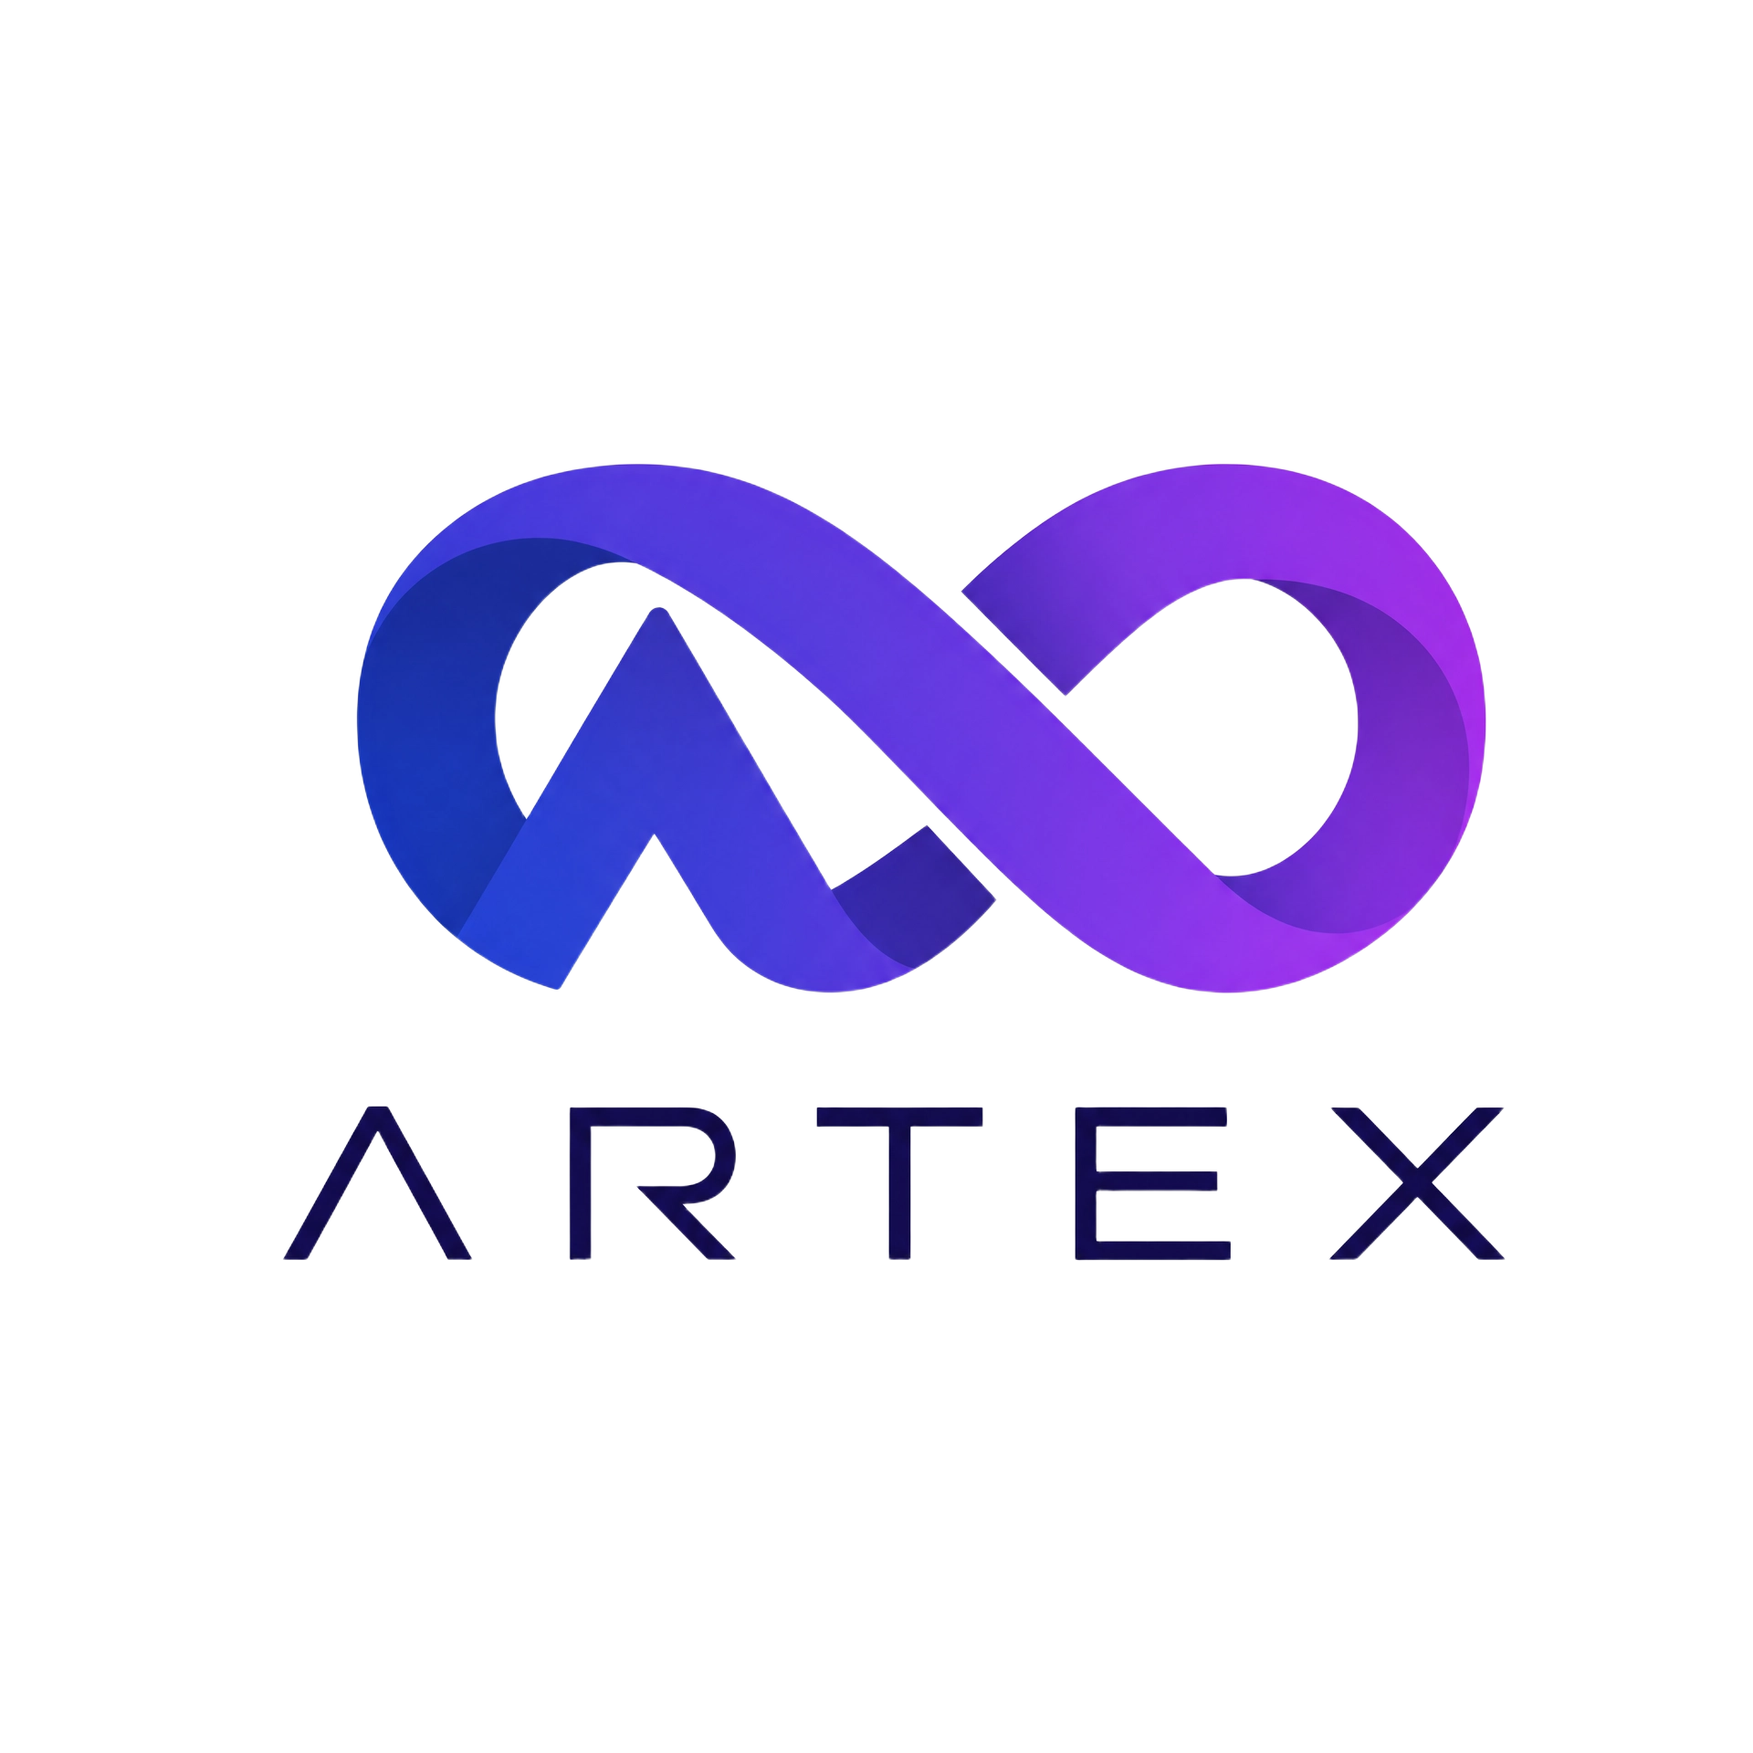
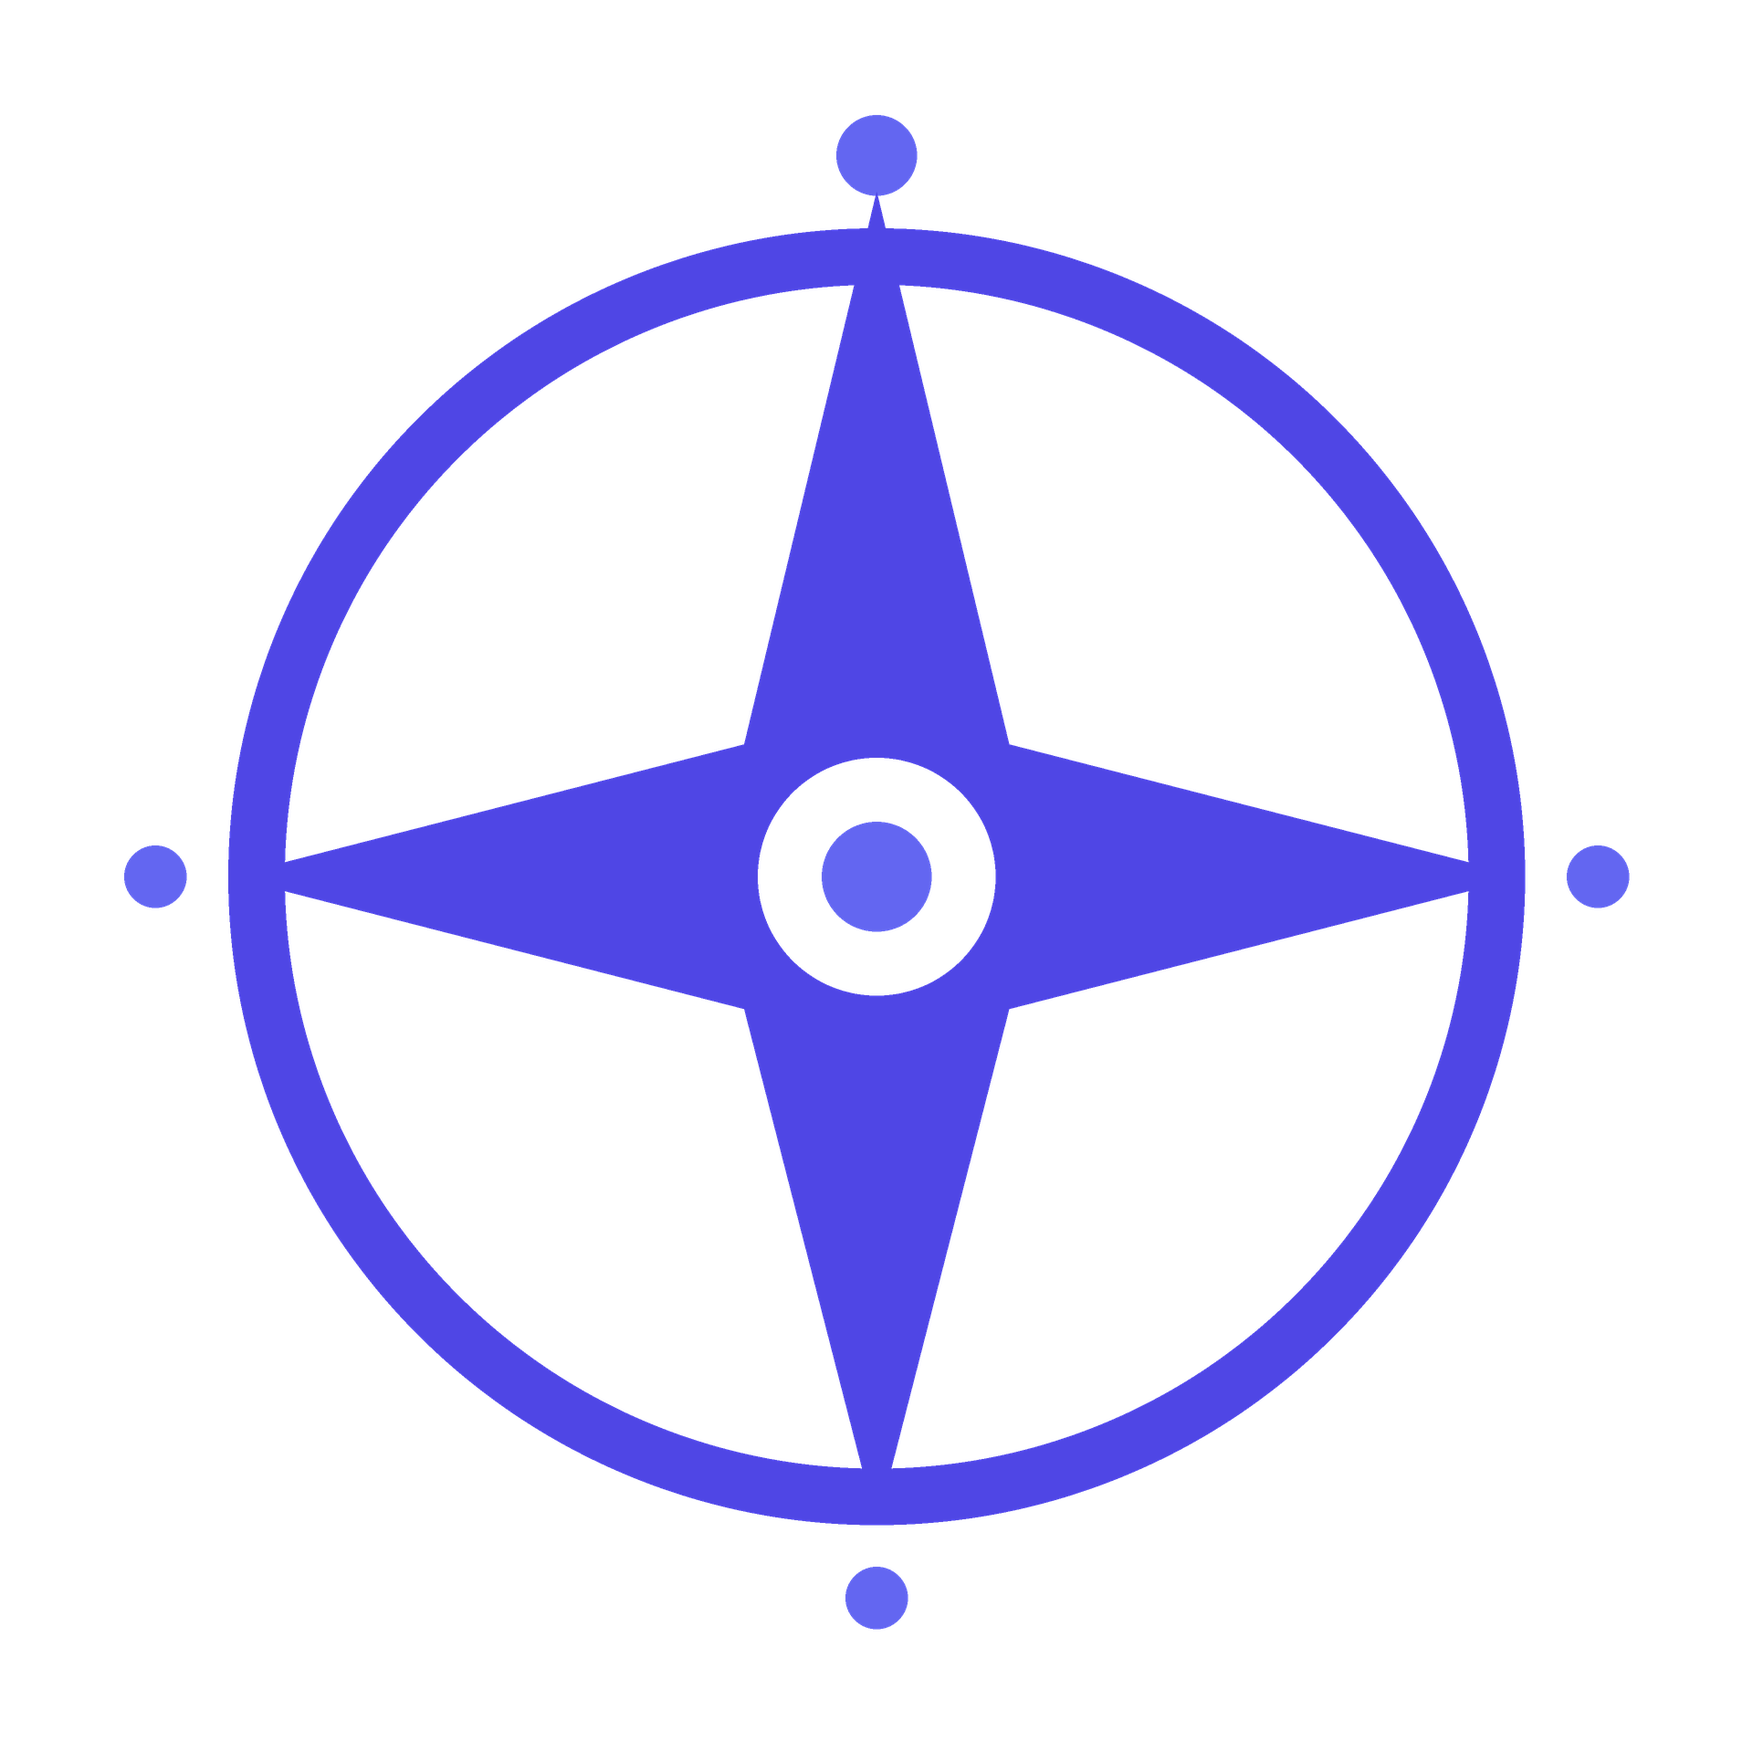
feat(ui): 设计并应用 Lodestar 星航主题，彻底清理 ARTEX 图标与指纹
- 新增 web/src/styles/presets/lodestar.css 主题预设（深空靛蓝星图侧边栏 + 极光紫主色，支持浅色/深色模式），并设为默认主题
- 重绘 logo.svg / logo.png / icon.png / favicon.ico 为北极星八芒罗盘图标，移除未使用的 web/media/dashboard.png
- 重设计登录页与初始化页左侧面板为星盘罗盘与星野网格视觉，侧边栏头部补充 Polaris Engine 副标题
- 替换 cmd/lodestar 启动 ASCII 横幅为 Lodestar，清理 web/next.config.mjs 与 reset-password.sh 中的上游名称残留

Changed region(s): [[0.0625, 0.0625, 0.9375, 0.9375], [0.5938, 0.625, 0.7188, 0.7188]]

diff --git a/web/src/styles/presets/lodestar.css b/web/src/styles/presets/lodestar.css
@@ -1,0 +1,90 @@
+/*
+label: Lodestar
+value: lodestar
+*/
+
+:root[data-theme-preset="lodestar"] {
+  --radius: 0.625rem;
+  --background: oklch(0.985 0.004 265);
+  --foreground: oklch(0.165 0.025 268);
+  --card: oklch(1 0 0);
+  --card-foreground: oklch(0.165 0.025 268);
+  --popover: oklch(1 0 0);
+  --popover-foreground: oklch(0.165 0.025 268);
+  --primary: oklch(0.495 0.235 274);
+  --primary-foreground: oklch(0.99 0.005 274);
+  --secondary: oklch(0.945 0.022 270);
+  --secondary-foreground: oklch(0.285 0.065 272);
+  --muted: oklch(0.955 0.012 268);
+  --muted-foreground: oklch(0.485 0.032 268);
+  --accent: oklch(0.935 0.032 272);
+  --accent-foreground: oklch(0.32 0.11 274);
+  --destructive: oklch(0.577 0.245 27.325);
+  --border: oklch(0.895 0.018 268);
+  --input: oklch(0.895 0.018 268);
+  --ring: oklch(0.555 0.215 274);
+  --chart-1: oklch(0.495 0.235 274);
+  --chart-2: oklch(0.605 0.195 295);
+  --chart-3: oklch(0.645 0.165 215);
+  --chart-4: oklch(0.715 0.165 165);
+  --chart-5: oklch(0.685 0.175 55);
+  /* 深空星航侧边栏：浅色模式下侧边栏依然保持深空靛蓝星图质感，形成鲜明的控制台视觉特征 */
+  --sidebar: oklch(0.175 0.038 272);
+  --sidebar-foreground: oklch(0.935 0.015 268);
+  --sidebar-primary: oklch(0.585 0.22 275);
+  --sidebar-primary-foreground: oklch(0.99 0.005 275);
+  --sidebar-accent: oklch(0.255 0.055 274);
+  --sidebar-accent-foreground: oklch(0.98 0.01 270);
+  --sidebar-border: oklch(0.265 0.045 272);
+  --sidebar-ring: oklch(0.585 0.22 275);
+  --shadow-2xs: 0px 1px 2px 0px oklch(0.25 0.06 274 / 0.04);
+  --shadow-xs: 0px 1px 3px 0px oklch(0.25 0.06 274 / 0.06);
+  --shadow-sm: 0px 2px 4px -1px oklch(0.25 0.06 274 / 0.06), 0px 1px 2px -1px oklch(0.25 0.06 274 / 0.04);
+  --shadow: 0px 4px 8px -2px oklch(0.25 0.06 274 / 0.08), 0px 2px 4px -2px oklch(0.25 0.06 274 / 0.05);
+  --shadow-md: 0px 8px 16px -4px oklch(0.25 0.06 274 / 0.1), 0px 4px 6px -2px oklch(0.25 0.06 274 / 0.05);
+  --shadow-lg: 0px 14px 24px -6px oklch(0.25 0.06 274 / 0.12), 0px 6px 10px -4px oklch(0.25 0.06 274 / 0.06);
+  --shadow-xl: 0px 20px 32px -8px oklch(0.25 0.06 274 / 0.14), 0px 8px 14px -6px oklch(0.25 0.06 274 / 0.08);
+  --shadow-2xl: 0px 28px 48px -12px oklch(0.25 0.06 274 / 0.22);
+}
+
+.dark:root[data-theme-preset="lodestar"] {
+  --background: oklch(0.135 0.028 270);
+  --foreground: oklch(0.955 0.012 268);
+  --card: oklch(0.178 0.034 272);
+  --card-foreground: oklch(0.955 0.012 268);
+  --popover: oklch(0.178 0.034 272);
+  --popover-foreground: oklch(0.955 0.012 268);
+  --primary: oklch(0.645 0.2 276);
+  --primary-foreground: oklch(0.125 0.03 272);
+  --secondary: oklch(0.235 0.045 272);
+  --secondary-foreground: oklch(0.935 0.015 268);
+  --muted: oklch(0.22 0.036 270);
+  --muted-foreground: oklch(0.685 0.03 268);
+  --accent: oklch(0.265 0.065 275);
+  --accent-foreground: oklch(0.965 0.015 272);
+  --destructive: oklch(0.68 0.2 24);
+  --border: oklch(0.275 0.045 272);
+  --input: oklch(0.255 0.042 272);
+  --ring: oklch(0.645 0.2 276);
+  --chart-1: oklch(0.645 0.2 276);
+  --chart-2: oklch(0.685 0.185 300);
+  --chart-3: oklch(0.725 0.155 210);
+  --chart-4: oklch(0.755 0.165 162);
+  --chart-5: oklch(0.745 0.165 65);
+  --sidebar: oklch(0.115 0.026 272);
+  --sidebar-foreground: oklch(0.935 0.015 268);
+  --sidebar-primary: oklch(0.645 0.2 276);
+  --sidebar-primary-foreground: oklch(0.125 0.03 272);
+  --sidebar-accent: oklch(0.215 0.05 274);
+  --sidebar-accent-foreground: oklch(0.965 0.015 272);
+  --sidebar-border: oklch(0.225 0.04 272);
+  --sidebar-ring: oklch(0.645 0.2 276);
+  --shadow-2xs: 0px 1px 2px 0px oklch(0.05 0.02 270 / 0.35);
+  --shadow-xs: 0px 1px 3px 0px oklch(0.05 0.02 270 / 0.45);
+  --shadow-sm: 0px 2px 4px -1px oklch(0.05 0.02 270 / 0.45), 0px 1px 2px -1px oklch(0.05 0.02 270 / 0.35);
+  --shadow: 0px 4px 8px -2px oklch(0.05 0.02 270 / 0.5), 0px 2px 4px -2px oklch(0.05 0.02 270 / 0.35);
+  --shadow-md: 0px 8px 16px -4px oklch(0.05 0.02 270 / 0.55), 0px 4px 6px -2px oklch(0.05 0.02 270 / 0.4);
+  --shadow-lg: 0px 14px 24px -6px oklch(0.05 0.02 270 / 0.6), 0px 6px 10px -4px oklch(0.05 0.02 270 / 0.45);
+  --shadow-xl: 0px 20px 32px -8px oklch(0.05 0.02 270 / 0.65), 0px 8px 14px -6px oklch(0.05 0.02 270 / 0.5);
+  --shadow-2xl: 0px 28px 48px -12px oklch(0.05 0.02 270 / 0.75);
+}

diff --git a/web/src/app/(auth)/setup/page.tsx b/web/src/app/(auth)/setup/page.tsx
@@ -54,25 +54,56 @@ export default function SetupPage() {
 
   return (
     <div className="flex h-dvh">
-      {/* Left panel */}
-      <div className="hidden flex-col items-center justify-center bg-primary p-12 text-center lg:flex lg:w-1/3">
-        <div className="relative flex items-center justify-center">
-          <div className="absolute size-80 rounded-full border border-primary-foreground/10" />
-          <div className="absolute size-60 rounded-full border border-primary-foreground/15" />
-          <div className="absolute size-40 rounded-full border border-primary-foreground/20" />
+      {/* Left panel: Lodestar celestial navigation theme */}
+      <div
+        className="relative hidden flex-col items-center justify-between overflow-hidden p-12 text-center text-white lg:flex lg:w-2/5"
+        style={{
+          background:
+            "radial-gradient(circle at 50% 38%, rgba(99, 102, 241, 0.32) 0%, rgba(79, 70, 229, 0.14) 38%, transparent 70%), linear-gradient(160deg, #0b0e1e 0%, #151934 52%, #1d1842 100%)",
+        }}
+      >
+        {/* Starfield & celestial grid */}
+        <div
+          className="pointer-events-none absolute inset-0 opacity-25"
+          style={{
+            backgroundImage:
+              "radial-gradient(rgba(255,255,255,0.75) 1px, transparent 1px), radial-gradient(rgba(165,180,252,0.5) 1px, transparent 1px)",
+            backgroundSize: "48px 48px, 96px 96px",
+            backgroundPosition: "0 0, 24px 24px",
+          }}
+        />
+        <div className="relative z-10 flex items-center gap-2 self-start text-indigo-200/80 text-xs tracking-widest uppercase">
+          <span className="inline-block size-2 rounded-full bg-indigo-400 shadow-[0_0_8px_#818cf8]" />
+          Celestial Navigation · Multi-Brain Security Engine
+        </div>
+
+        {/* Astrolabe compass & Polaris centerpiece */}
+        <div className="relative z-10 flex items-center justify-center my-auto">
+          <div className="absolute size-96 rounded-full border border-indigo-400/10" />
+          <div className="absolute size-72 rounded-full border border-dashed border-indigo-300/20" />
+          <div className="absolute size-52 rounded-full border border-indigo-300/25 bg-indigo-950/30 backdrop-blur-xs" />
+          <div className="absolute h-80 w-px bg-linear-to-b from-transparent via-indigo-400/25 to-transparent" />
+          <div className="absolute h-px w-80 bg-linear-to-r from-transparent via-indigo-400/25 to-transparent" />
           {/* eslint-disable-next-line @next/next/no-img-element */}
           <img
             src="/logo.png"
             alt="Lodestar"
-            width={160}
-            height={160}
-            className="relative brightness-0 invert"
+            width={156}
+            height={156}
+            className="relative drop-shadow-[0_0_28px_rgba(129,140,248,0.55)]"
           />
+        </div>
+
+        <div className="relative z-10 max-w-sm space-y-2">
+          <div className="font-semibold text-lg tracking-wide text-white">LODESTAR</div>
+          <p className="text-indigo-200/70 text-xs leading-relaxed">
+            以可追溯推理图为星图 · 多脑协同规划、执行、研判与独立复核
+          </p>
         </div>
       </div>
 
       {/* Right panel */}
-      <div className="flex w-full items-center justify-center bg-background p-8 lg:w-2/3">
+      <div className="flex w-full items-center justify-center bg-background p-8 lg:w-3/5">
         <div className="w-full max-w-md space-y-10 py-24 lg:py-32">
           <div className="space-y-4 text-center">
             <h2 className="text-2xl font-medium tracking-tight">初始化密码</h2>

diff --git a/web/src/app/(auth)/login/page.tsx b/web/src/app/(auth)/login/page.tsx
@@ -50,25 +50,56 @@ export default function LoginPage() {
 
   return (
     <div className="flex h-dvh">
-      {/* Left panel */}
-      <div className="hidden flex-col items-center justify-center bg-primary p-12 text-center lg:flex lg:w-1/3">
-        <div className="relative flex items-center justify-center">
-          <div className="absolute size-80 rounded-full border border-primary-foreground/10" />
-          <div className="absolute size-60 rounded-full border border-primary-foreground/15" />
-          <div className="absolute size-40 rounded-full border border-primary-foreground/20" />
+      {/* Left panel: Lodestar celestial navigation theme */}
+      <div
+        className="relative hidden flex-col items-center justify-between overflow-hidden p-12 text-center text-white lg:flex lg:w-2/5"
+        style={{
+          background:
+            "radial-gradient(circle at 50% 38%, rgba(99, 102, 241, 0.32) 0%, rgba(79, 70, 229, 0.14) 38%, transparent 70%), linear-gradient(160deg, #0b0e1e 0%, #151934 52%, #1d1842 100%)",
+        }}
+      >
+        {/* Starfield & celestial grid */}
+        <div
+          className="pointer-events-none absolute inset-0 opacity-25"
+          style={{
+            backgroundImage:
+              "radial-gradient(rgba(255,255,255,0.75) 1px, transparent 1px), radial-gradient(rgba(165,180,252,0.5) 1px, transparent 1px)",
+            backgroundSize: "48px 48px, 96px 96px",
+            backgroundPosition: "0 0, 24px 24px",
+          }}
+        />
+        <div className="relative z-10 flex items-center gap-2 self-start text-indigo-200/80 text-xs tracking-widest uppercase">
+          <span className="inline-block size-2 rounded-full bg-indigo-400 shadow-[0_0_8px_#818cf8]" />
+          Celestial Navigation · Multi-Brain Security Engine
+        </div>
+
+        {/* Astrolabe compass & Polaris centerpiece */}
+        <div className="relative z-10 flex items-center justify-center my-auto">
+          <div className="absolute size-96 rounded-full border border-indigo-400/10" />
+          <div className="absolute size-72 rounded-full border border-dashed border-indigo-300/20" />
+          <div className="absolute size-52 rounded-full border border-indigo-300/25 bg-indigo-950/30 backdrop-blur-xs" />
+          <div className="absolute h-80 w-px bg-linear-to-b from-transparent via-indigo-400/25 to-transparent" />
+          <div className="absolute h-px w-80 bg-linear-to-r from-transparent via-indigo-400/25 to-transparent" />
           {/* eslint-disable-next-line @next/next/no-img-element */}
           <img
             src="/logo.png"
             alt="Lodestar"
-            width={160}
-            height={160}
-            className="relative brightness-0 invert"
+            width={156}
+            height={156}
+            className="relative drop-shadow-[0_0_28px_rgba(129,140,248,0.55)]"
           />
+        </div>
+
+        <div className="relative z-10 max-w-sm space-y-2">
+          <div className="font-semibold text-lg tracking-wide text-white">LODESTAR</div>
+          <p className="text-indigo-200/70 text-xs leading-relaxed">
+            以可追溯推理图为星图 · 多脑协同规划、执行、研判与独立复核
+          </p>
         </div>
       </div>
 
       {/* Right panel */}
-      <div className="flex w-full items-center justify-center bg-background p-8 lg:w-2/3">
+      <div className="flex w-full items-center justify-center bg-background p-8 lg:w-3/5">
         <div className="w-full max-w-md space-y-10 py-24 lg:py-32">
           <div className="space-y-4 text-center">
             <h2 className="text-2xl font-medium tracking-tight">登录</h2>

diff --git a/web/src/app/(main)/_components/sidebar/app-sidebar.tsx b/web/src/app/(main)/_components/sidebar/app-sidebar.tsx
@@ -41,11 +41,22 @@ export function AppSidebar({ ...props }: React.ComponentProps<typeof Sidebar>) {
       <SidebarHeader>
         <SidebarMenu>
           <SidebarMenuItem>
-            <SidebarMenuButton asChild>
-              <Link prefetch={false} href="/function/tasks">
+            <SidebarMenuButton asChild size="lg">
+              <Link prefetch={false} href="/function/tasks" className="gap-2.5">
                 {/* eslint-disable-next-line @next/next/no-img-element */}
-                <img src="/logo.png" alt="Lodestar" width={40} height={40} className="shrink-0" />
-                <span className="font-semibold text-base">{APP_CONFIG.name}</span>
+                <img
+                  src="/logo.png"
+                  alt="Lodestar"
+                  width={36}
+                  height={36}
+                  className="shrink-0 drop-shadow-[0_0_8px_rgba(99,102,241,0.45)]"
+                />
+                <div className="flex flex-col gap-0.5 leading-none group-data-[collapsible=icon]:hidden">
+                  <span className="font-semibold text-base tracking-tight">{APP_CONFIG.name}</span>
+                  <span className="font-mono text-[10px] text-sidebar-foreground/60 tracking-widest uppercase">
+                    Polaris Engine
+                  </span>
+                </div>
               </Link>
             </SidebarMenuButton>
           </SidebarMenuItem>

diff --git a/web/src/app/globals.css b/web/src/app/globals.css
@@ -3,6 +3,7 @@
 @import "shadcn/tailwind.css";
 
 /* Theme preset styles: these override CSS variables based on the selected data-theme-preset */
+@import "../styles/presets/lodestar.css";
 @import "../styles/presets/brutalist.css";
 @import "../styles/presets/soft-pop.css";
 @import "../styles/presets/tangerine.css";

diff --git a/web/src/lib/preferences/theme.ts b/web/src/lib/preferences/theme.ts
@@ -20,6 +20,14 @@ export const THEME_PRESET_OPTIONS = [
     },
   },
   {
+    label: "Lodestar",
+    value: "lodestar",
+    primary: {
+      light: "oklch(0.495 0.235 274)",
+      dark: "oklch(0.645 0.2 276)",
+    },
+  },
+  {
     label: "Brutalist",
     value: "brutalist",
     primary: {

diff --git a/web/src/lib/preferences/preferences-config.ts b/web/src/lib/preferences/preferences-config.ts
@@ -67,7 +67,7 @@ type PreferencePersistenceConfig = {
  */
 export const PREFERENCE_DEFAULTS: PreferenceValueMap = {
   theme_mode: "light",
-  theme_preset: "default",
+  theme_preset: "lodestar",
   font: "geist",
   content_layout: "full-width",
   navbar_style: "sticky",

diff --git a/cmd/lodestar/main.go b/cmd/lodestar/main.go
@@ -26,11 +26,11 @@ import (
 var version = "dev"
 
 const banner = `
-    _    ____ _____ _______  __
-   / \  |  _ \_   _| ____\ \/ /
-  / _ \ | |_) || | |  _|  \  /
- / ___ \|  _ < | | | |___ /  \
-/_/   \_\_| \_\|_| |_____/_/\_\
+     __               __           __
+    / /   ____  ____/ /__  _____ / /_____ ______
+   / /   / __ \/ __  / _ \/ ___// __/ __ ` + "`" + `/ ___/
+  / /___/ /_/ / /_/ /  __(__  )/ /_/ /_/ / /
+ /_____/\____/\__,_/\___/____/ \__/\__,_/_/
 `
 
 // printBanner writes the startup banner + version/runtime info to stdout.
